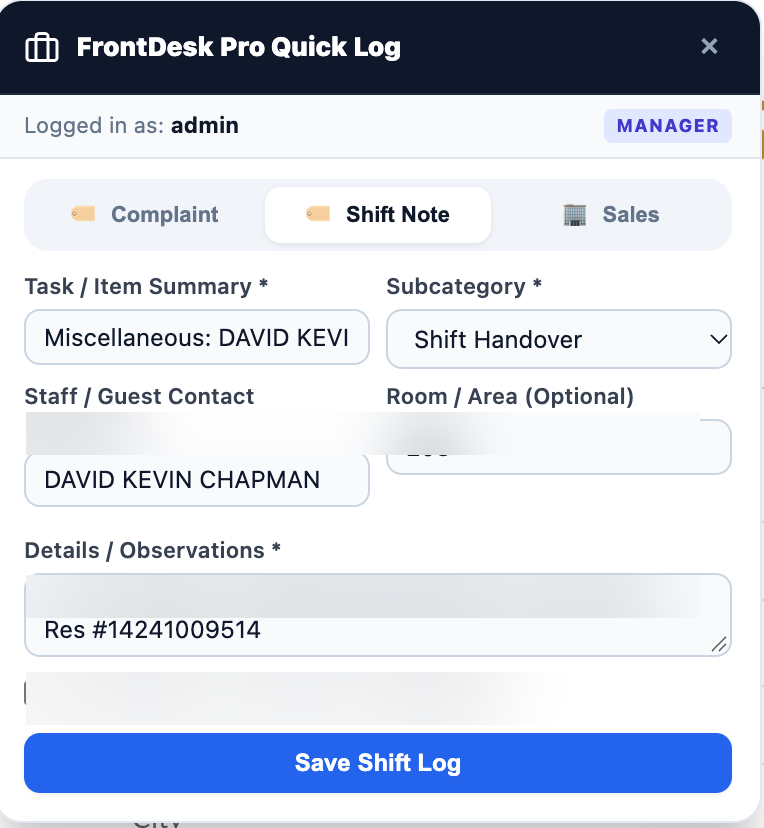
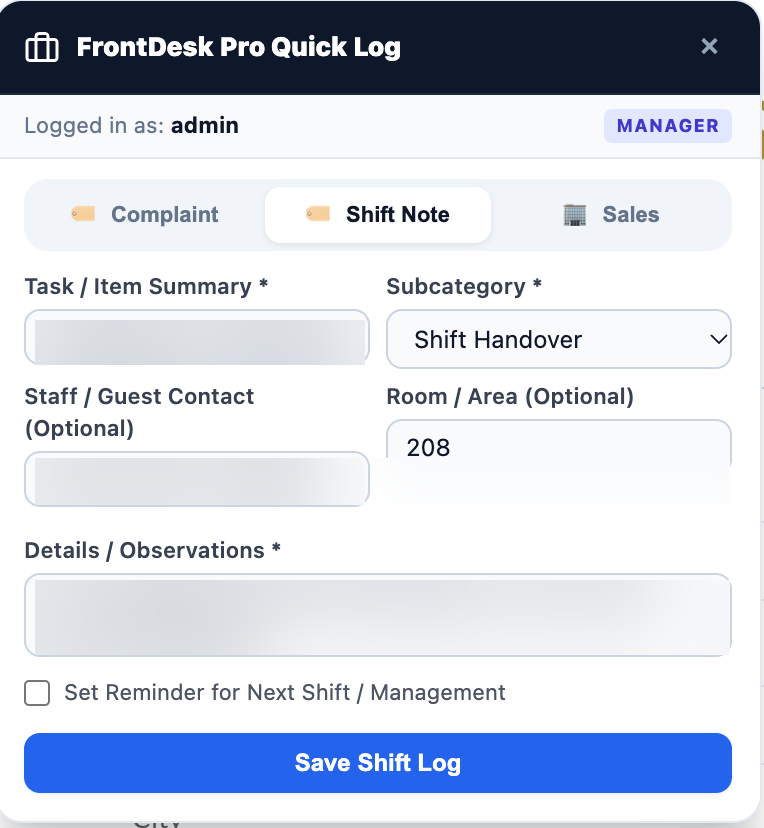
fix(guide): align blur boxes with actual input fields in Fig 6 and add cache-busting

diff --git a/src/components/CashHandlingGuide.tsx b/src/components/CashHandlingGuide.tsx
@@ -279,7 +279,7 @@ export function CashHandlingGuide() {
             <div className="grid md:grid-cols-2 gap-6 items-center mb-6">
               <div className="border border-slate-200 dark:border-slate-700 rounded-xl overflow-hidden shadow-xs bg-slate-100 dark:bg-slate-800 p-2">
                 <img 
-                  src="/guide-assets/category-management.png" 
+                  src="/guide-assets/category-management.png?v=2" 
                   alt="FrontDesk Pro Shift Log Categories & Questionnaire Management" 
                   className="w-full h-auto rounded-lg object-cover"
                 />
@@ -598,7 +598,7 @@ export function CashHandlingGuide() {
 
                 <div className="border border-slate-200 dark:border-slate-700 rounded-lg overflow-hidden bg-slate-50 dark:bg-slate-800 p-2">
                   <img 
-                    src="/guide-assets/hotelkey-autofill-popup.png" 
+                    src="/guide-assets/hotelkey-autofill-popup.png?v=2" 
                     alt="Auto-captured reservation details inside quick log popup form" 
                     className="w-full h-auto rounded"
                   />
